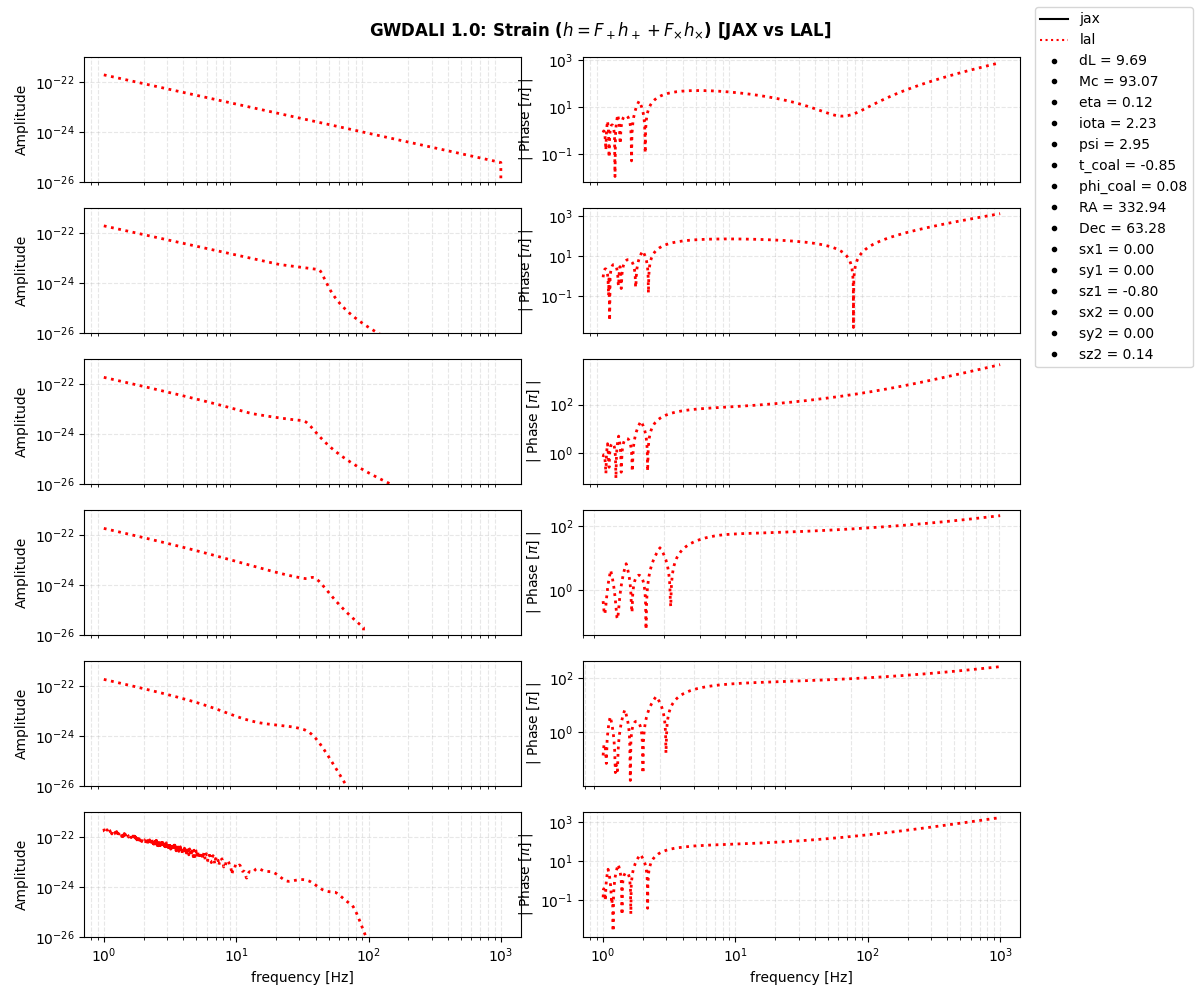
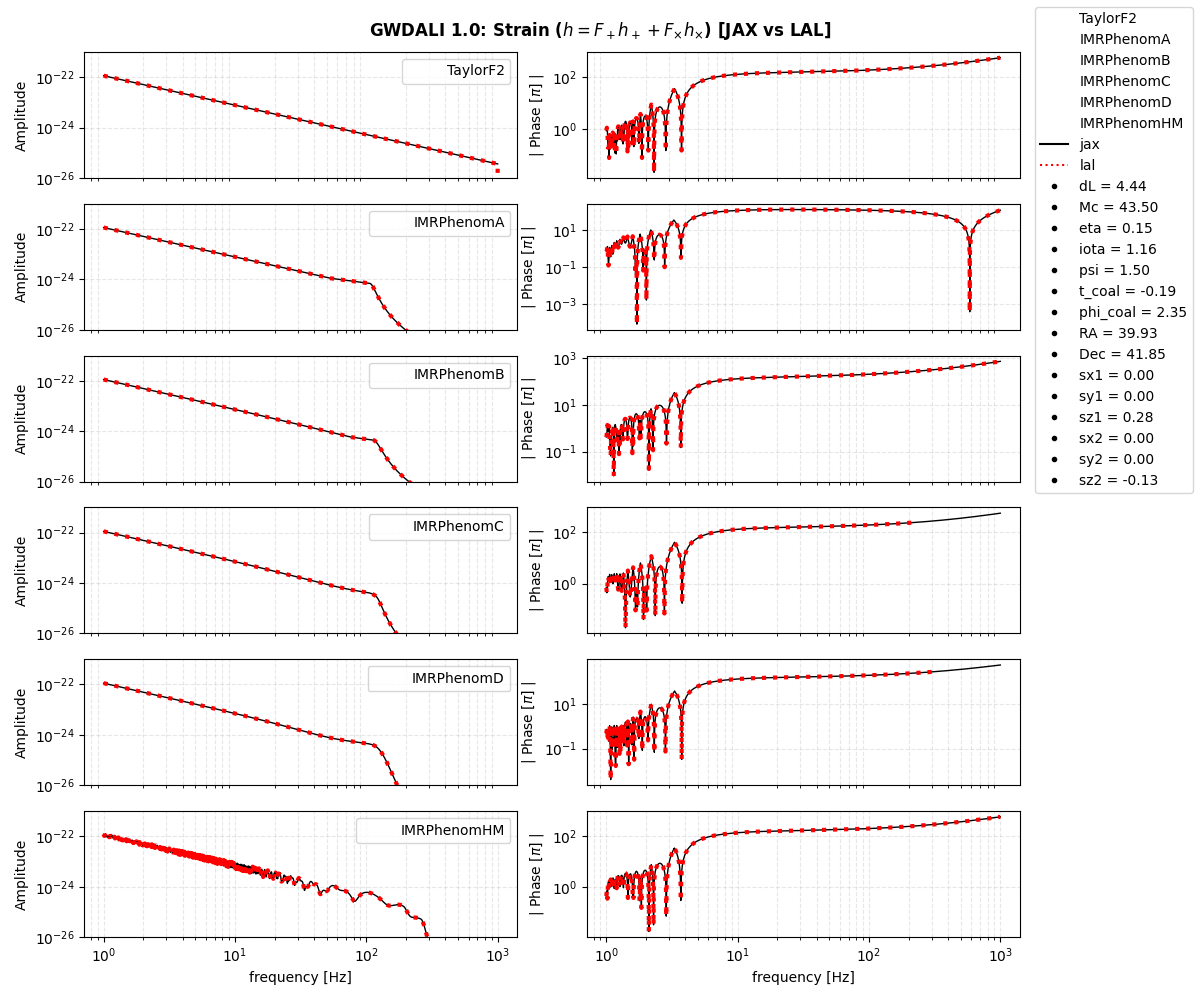
updating Examples_py/ get_strain.py

diff --git a/Examples_py/2_get_strains.py b/Examples_py/2_get_strains.py
@@ -61,48 +61,46 @@ for n, approx in enumerate(Approxs):
 
 	freq = np.arange(1.,1.e3,dF)
 
-	for ni, enable_jax_waveforms in enumerate([True,False]):
-		t1 = now()
-		if enable_jax_waveforms:
-			H_vec = gw.get_strain(detectors,GwPrms,freq,approx,enable_jax_waveforms,disable_jit=True,EarthRotation=False)
-		else:
-			H_vec = gw.get_strain(detectors,GwPrms,freq,approx,enable_jax_waveforms,dF=dF,EarthRotation=False)
+	
+	H_vec_jax = gw.get_strain(detectors,GwPrms,freq,approx,enable_jax_waveforms=True,disable_jit=True,EarthRotation=False)
+	H_vec_lal = gw.get_strain(detectors,GwPrms,freq,approx,enable_jax_waveforms=False,dF=dF,EarthRotation=False)
 
-		h = H_vec[0] # first detector
+	hj = H_vec_jax[0] # first detector 
+	hl = H_vec_lal[0]
 
-		dt = now()-t1
+	ax = plt.subplot(6,1,n+1)
+	plt.xticks([]) ; plt.yticks([])
+	for spine in ax.spines.values():
+		spine.set_visible(False)
+		
+	plt.subplot(6,2,2*n+1)
 
-		color = ['k','r'][ni]
-		ls = ['-',':'][ni]
-		lw = [1,2][ni]
+	AmpJ = Amplitude(hj)
+	AmpL = Amplitude(hl)
 
-		ax = plt.subplot(6,1,n+1)
-		plt.title(approx,weight="bold")
-		plt.xticks([]) ; plt.yticks([])
-		for spine in ax.spines.values():
-			spine.set_visible(False)
-			
-		plt.subplot(6,2,2*n+1)
+	PhaseJ = np.abs( np.unwrap(np.angle(hj/AmpJ)) ) / np.pi
+	PhaseL = np.abs( np.unwrap(np.angle(hl/AmpL)) ) / np.pi
 
-		Amp = Amplitude(h)
-		Phase = np.abs( np.unwrap(np.angle(h/Amp)) ) / np.pi
+	plt.plot([],'w.',label=approx)
+	plt.loglog(freq,AmpJ,color='k',lw=1,ls='-')
+	plt.loglog(freq,AmpL,color='r',lw=3,ls=':')
+	plt.ylim(1.e-26,1.e-21)
+	plt.grid(ls='--',which='both',alpha=0.3)
+	plt.ylabel("Amplitude")
+	plt.legend(loc='upper right')
+	if (n!= len(Approxs)-1): plt.xticks([])
+	else: plt.xlabel('frequency [Hz]')
 
-		plt.loglog(freq,Amp,color=color,lw=lw,ls=ls)
-		plt.ylim(1.e-26,1.e-21)
-		plt.grid(ls='--',which='both',alpha=0.3)
-		plt.ylabel("Amplitude")
-		if (n!= len(Approxs)-1): plt.xticks([])
-		else: plt.xlabel('frequency [Hz]')
+	plt.subplot(6,2,2*n+2)
+	plt.ylabel(f"| Phase [$\\pi$] |")
+	plt.plot(freq,PhaseJ,color='k',lw=1,ls='-')
+	plt.plot(freq,PhaseL,color='r',lw=3,ls=':')
+	plt.xscale('log') ; plt.yscale('log')
+	plt.grid(ls='--',which='both',alpha=0.3)
+	if (n!= len(Approxs)-1): plt.xticks([])
+	else: plt.xlabel('frequency [Hz]')
 
-		plt.subplot(6,2,2*n+2)
-		plt.ylabel(f"| Phase [$\\pi$] |")
-		plt.plot(freq,Phase,color=color,lw=lw,ls=ls)
-		plt.xscale('log') ; plt.yscale('log')
-		plt.grid(ls='--',which='both',alpha=0.3)
-		if (n!= len(Approxs)-1): plt.xticks([])
-		else: plt.xlabel('frequency [Hz]')
-
-		print(approx,f"[enable_jax_waveforms: {enable_jax_waveforms}] OK!")
+	print(approx,"OK!")
 
 plt.tight_layout()
 plt.subplots_adjust(right=.85)
